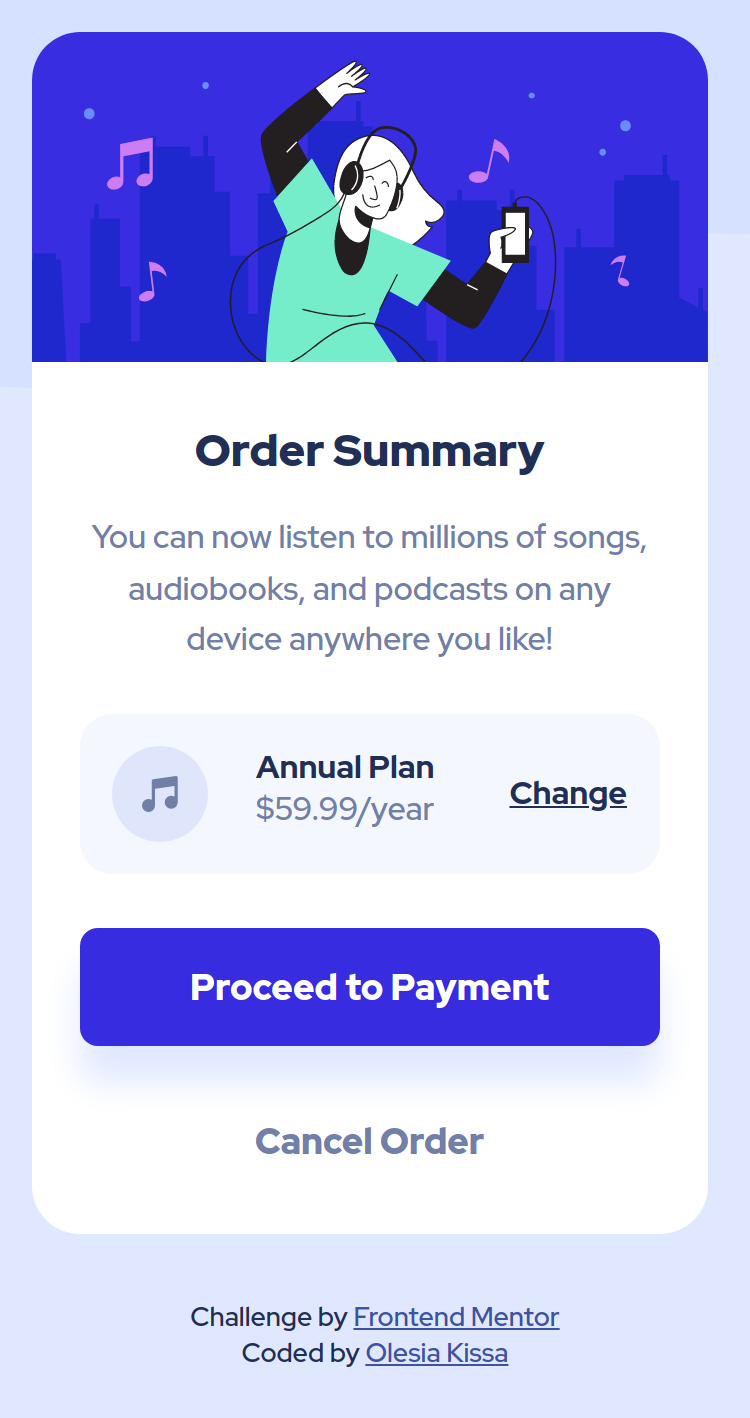
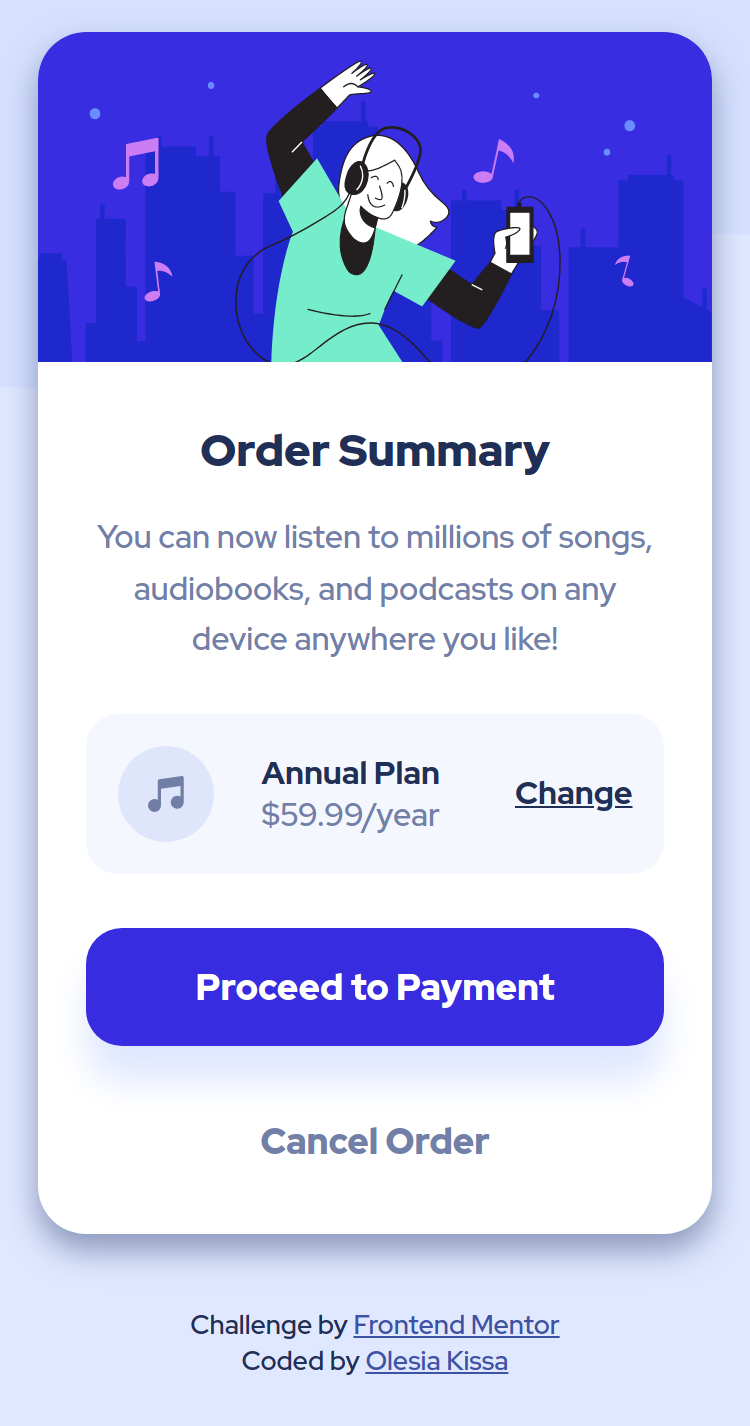
Add desktop layout and edit card shadow
Replace old screenshots with new ones because card 
shadow was added. 
Fix text alignment in the plan container. 
Make CTA button borders similar to the 
borders of the container above for visual matching.

diff --git a/order-summary-component/style.css b/order-summary-component/style.css
@@ -49,6 +49,7 @@ body {
   flex-direction: column;
   justify-content: space-between;
   margin: 1em auto;
+  box-shadow: 0 .5em 1em hsla(224, 23%, 55%, 0.788);
 }
 
 .card header {
@@ -94,7 +95,7 @@ body {
   align-self: stretch;
   display: flex;
   justify-content: space-between;
-  align-content: baseline;
+  align-content: center;
 }
 
 .annual-plan-icon {
@@ -122,6 +123,7 @@ body {
 
 .annual-plan-text {
   margin: 0 auto 0 1.5em;
+  align-self: center;
 }
 
 .annual-plan-text p:first-child {
@@ -148,7 +150,7 @@ body {
 .cta-proceed {
   background: var(--bright-blue);
   color: #fff;
-  border-radius: 0.5em;
+  border-radius: 1em;
   align-self: stretch;
   padding: 1em 2em;
   box-shadow: 0 1em 1em var(--pale-blue);
@@ -204,16 +206,42 @@ footer {
   }
 
   .summary-text {
-    line-height: 1.8;
-  }
-
-  .annual-plan-container {
-    font-size: 1.125rem;
+    line-height: 1.7;
   }
 
   .cta-proceed,
   .cta-cancel {
     margin: 1em 0 0.5em;
+  }
+
+  footer {
+    margin-block-start: 0;
+  }
+
+}
+
+/* Desktop layout */
+@media screen and (min-width: 1440px) {
+
+  body {
+    background: url("images/pattern-background-desktop.svg") center top no-repeat;
+    background-size: contain;
+  }
+
+  .card {
+    width: 55%;
+  }
+
+  .summary-text {
+    line-height: 1.8;
+  }
+
+  .annual-plan-container {
+    font-size: 1rem;
+  }
+
+  .cta-proceed {
+    margin-block-start: 1.5em;
   }
 
 }
